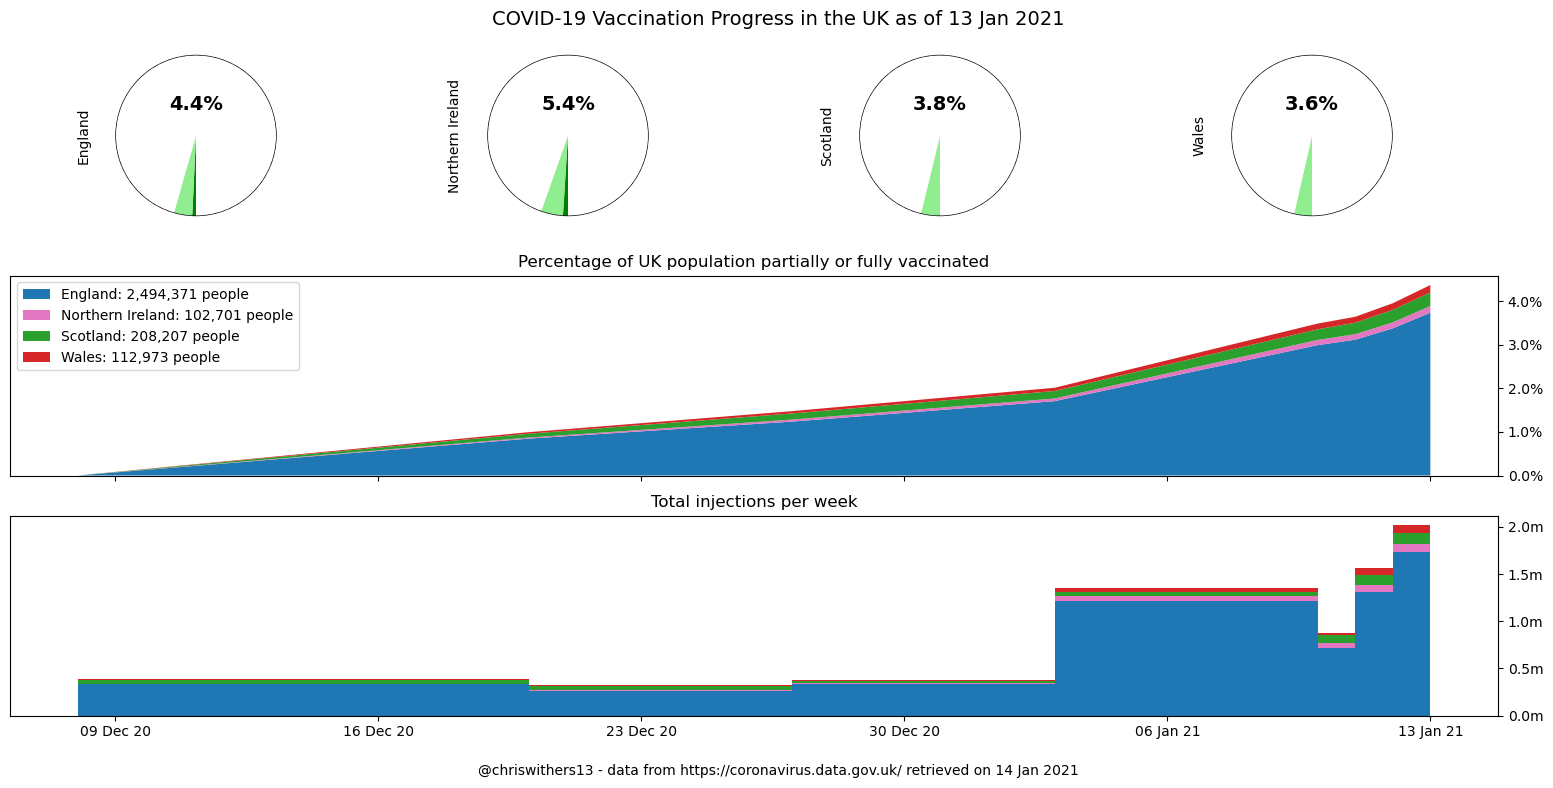
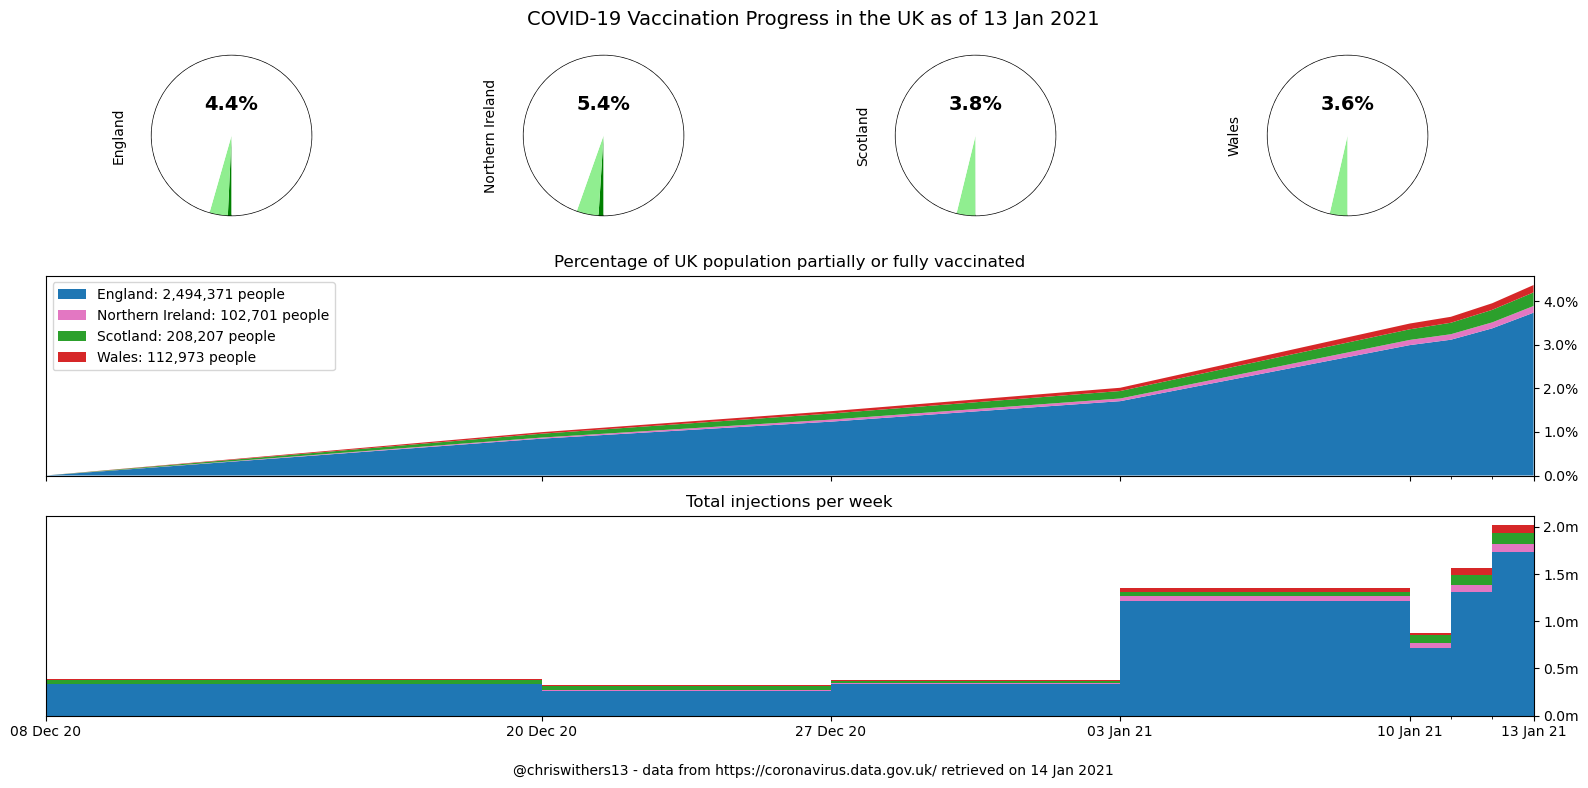
tweak x-axis ticks and limits

diff --git a/phe.py b/phe.py
@@ -4,6 +4,7 @@ from functools import lru_cache
 
 import geopandas
 import matplotlib.pyplot as plt
+import numpy as np
 import pandas as pd
 from matplotlib.dates import DayLocator, DateFormatter
 from matplotlib.gridspec import GridSpec
@@ -473,6 +474,7 @@ def vaccination_dashboard():
     colors = [plt.cm.tab10(i) for i in [england_col, ni_col, scotland_col, wales_col]]
 
     fig = plt.figure(figsize=(16, 8.5), dpi=100)
+    fig.set_facecolor('white')
     fig.suptitle(f'COVID-19 Vaccination Progress in the UK as of {max_date:%d %b %Y}', fontsize=14)
 
     gs = GridSpec(3, 4, height_ratios=[1, 1, 1])
@@ -505,7 +507,12 @@ def vaccination_dashboard():
     ax.yaxis.set_label_position("right")
     ax.yaxis.tick_right()
     ax.yaxis.set_major_formatter(FuncFormatter(lambda y, pos: f"{y / 1_000_000:.1f}m"))
-    ax.xaxis.set_major_locator(DayLocator(interval=7))
+    ax.set_xlim(first_vaccination, max_date)
+    ax.set_xticks(all_data.index.get_level_values(0).unique(), minor=True)
+    major_ticks = list(weekly[date_col].unique())
+    if max_date > major_ticks[-1]+np.timedelta64(1,'D'):
+        major_ticks.append(max_date.to_datetime64())
+    ax.set_xticks(major_ticks)
     ax.xaxis.set_major_formatter(DateFormatter('%d %b %y'))
     ax.xaxis.label.set_visible(False)
     ax.set_title('Total injections per week')
